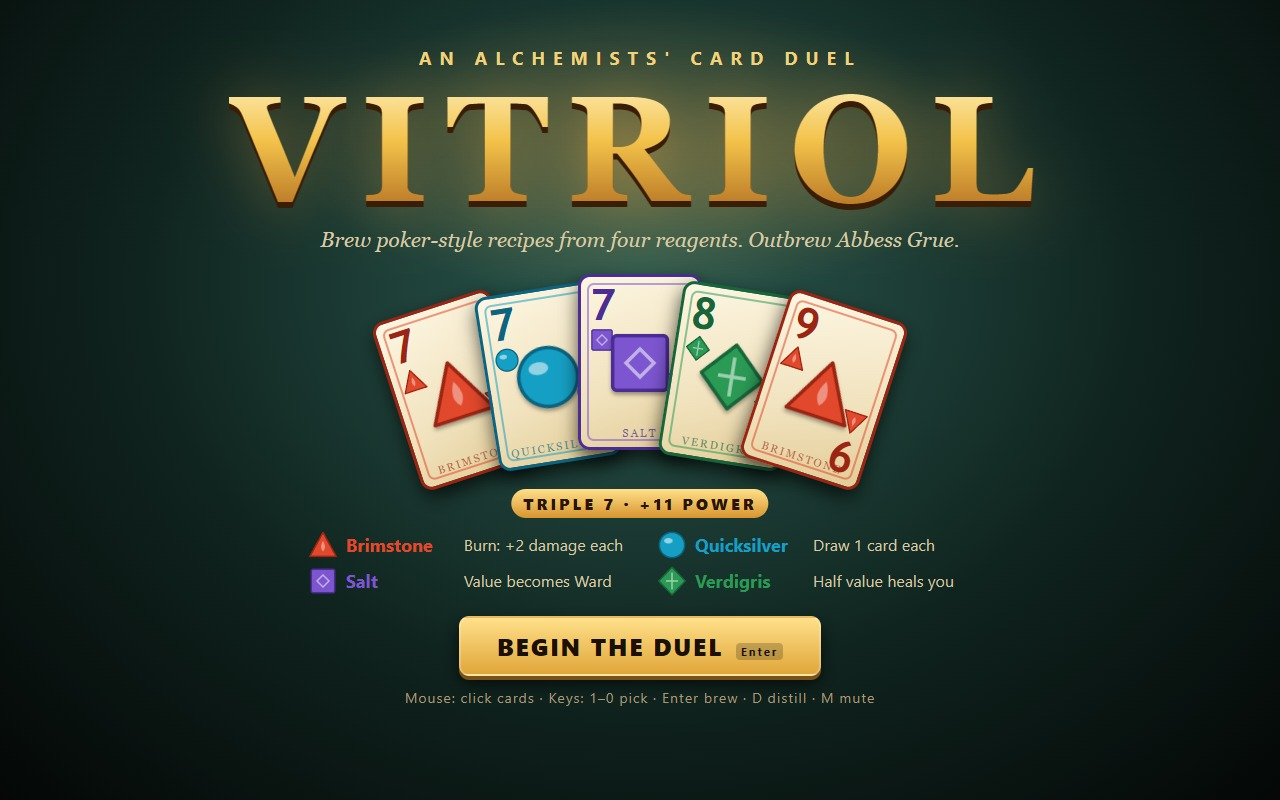
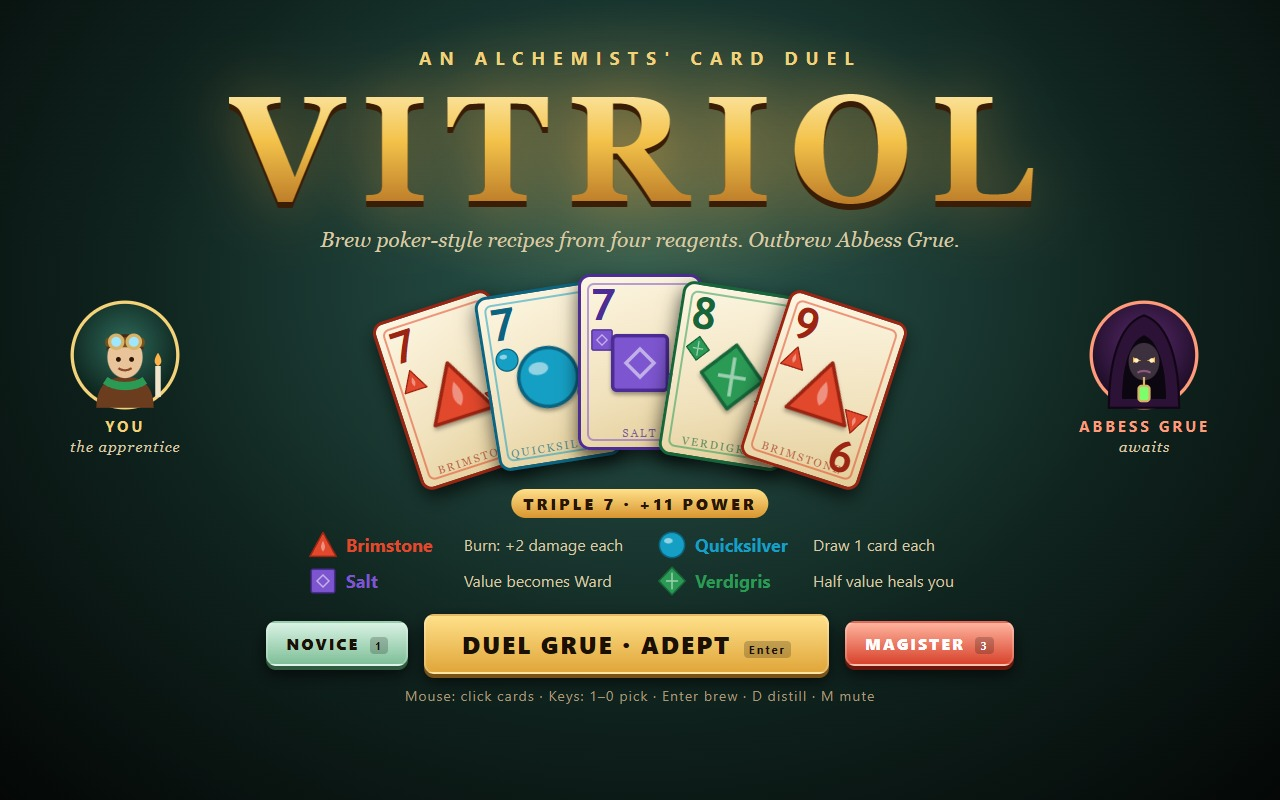
Difficulty levels (Novice/Adept/Magister), portraits on title, screenshot checks in main.ts

Changed region(s): [[0.1875, 0.75, 0.8125, 0.875], [0.8438, 0.375, 0.9375, 0.5625], [0.0312, 0.375, 0.1562, 0.5625]]

diff --git a/game/src/opponent-ai.js b/game/src/opponent-ai.js
@@ -1,31 +1,52 @@
 // Abbess Grue, the rival: weighs every possible brew in her hand and announces
 // the one she will throw next turn, so the player can read it and ward against it.
+// Difficulty: Novice brews sloppily, Adept weighs her own state, Magister also reads
+// the threat in your hand and wards up when you could finish her.
 import { allBrews, evaluateBrew } from "./combos.js";
 import { START_LIFE } from "./rules.js";
 
-const KEEP_CARD_COST = 1.6;
+export const DIFFICULTIES = {
+  novice: { name: 'Novice', keepCost: 0.4, noise: 14, readsThreat: false },
+  adept: { name: 'Adept', keepCost: 1.6, noise: 0, readsThreat: false },
+  magister: { name: 'Magister', keepCost: 4.0, noise: 0, readsThreat: true },
+};
 
-export function scoreRivalBrew(brew, rival, player) {
+/** The most damage the opponent could deal next turn from their hand (Magister peeks at it). */
+export function threatFrom(side) {
+  let most = 0;
+  for (const cards of allBrews(side.hand)) {
+    const b = evaluateBrew(cards, side.lastSuit, side.chain);
+    if (b.damage > most) most = b.damage;
+  }
+  return most;
+}
+
+export function scoreRivalBrew(brew, rival, player, level = DIFFICULTIES.adept, threat = 0) {
   const lethal = brew.damage >= player.life + player.ward;
   if (lethal) return 1000 + brew.damage;
   const hurt = START_LIFE - rival.life;
-  const wardWeight = rival.life < 30 ? 0.95 : rival.life < 50 ? 0.65 : 0.35;
+  let wardWeight = rival.life < 30 ? 0.95 : rival.life < 50 ? 0.65 : 0.35;
+  if (level.readsThreat && threat >= rival.life) wardWeight = 1.6;
   const healWeight = hurt > 18 ? 1.1 : hurt > 8 ? 0.6 : 0.1;
   const usefulHeal = Math.min(brew.heal, hurt);
+  const usefulWard = level.readsThreat ? Math.min(brew.ward, Math.max(threat, 6)) : brew.ward;
   const pressure = player.life < 30 ? 1.25 : 1;
-  return brew.damage * pressure + brew.ward * wardWeight + usefulHeal * healWeight + brew.draw * 1.5
-    - brew.cards.length * KEEP_CARD_COST + brew.chain * 1.2;
+  return brew.damage * pressure + usefulWard * wardWeight + usefulHeal * healWeight + brew.draw * 1.5
+    - brew.cards.length * level.keepCost + brew.chain * 1.2;
 }
 
 /** Picks the rival's next brew and labels it as an intent the table shows. */
 export function planRivalBrew(state) {
   const { rival, player } = state;
   if (rival.hand.length === 0) return null;
+  const level = DIFFICULTIES[state.difficulty] || DIFFICULTIES.adept;
+  const threat = level.readsThreat ? threatFrom(player) : 0;
   let best = null;
   let bestScore = -Infinity;
   for (const cards of allBrews(rival.hand)) {
     const brew = evaluateBrew(cards, rival.lastSuit, rival.chain);
-    const score = scoreRivalBrew(brew, rival, player);
+    let score = scoreRivalBrew(brew, rival, player, level, threat);
+    if (level.noise) score += state.rng.next() * level.noise;
     if (score > bestScore) { bestScore = score; best = brew; }
   }
   return { cards: best.cards, brew: best, mood: intentMood(best) };

diff --git a/game/src/table-render.js b/game/src/table-render.js
@@ -4,6 +4,7 @@ import { evaluateBrew, MAX_BREW } from './combos.js';
 import { START_LIFE, HAND_LIMIT } from './rules.js';
 import { makeCardFace, makeCardBack, suitGlyphSvg } from './card-art.js';
 import { rivalPortrait, playerPortrait } from './portraits.js';
+import { DIFFICULTIES } from './opponent-ai.js';
 
 export const STAGE_W = 1280;
 export const STAGE_H = 800;
@@ -33,10 +34,10 @@ export function handSlots(count, centerX = 640, cardW = HAND_CARD_W, span = 780)
   return Array.from({ length: count }, (_, i) => ({ x: left + gap * i, rot: (i - (count - 1) / 2) * 2.2, lift: Math.abs(i - (count - 1) / 2) * 3 }));
 }
 
-function lifePanel(side, who, isTurn) {
+function lifePanel(side, who, isTurn, level) {
   const p = el('div', `panel life-panel ${who}${isTurn ? ' active' : ''}`);
   const pct = Math.max(0, side.life / START_LIFE) * 100;
-  const title = who === 'rival' ? 'ABBESS GRUE' : 'YOU · APPRENTICE';
+  const title = who === 'rival' ? `ABBESS GRUE<span class="level-tag">${(DIFFICULTIES[level] || DIFFICULTIES.adept).name.toUpperCase()}</span>` : 'YOU · APPRENTICE';
   p.innerHTML = `
     <div class="who">${title}</div>
     <div class="life-row"><div class="flask"></div><span class="life-num">${side.life}</span><span class="life-max">/${START_LIFE}</span></div>
@@ -144,7 +145,7 @@ export function renderTable(root, state, ui) {
   table.append(el('div', 'felt-ring'));
   table.append(el('div', 'crucible'));
 
-  table.append(place(lifePanel(state.rival, 'rival', state.phase === 'rival'), 24, 20));
+  table.append(place(lifePanel(state.rival, 'rival', state.phase === 'rival', state.difficulty), 24, 20));
   table.append(place(lifePanel(state.player, 'player', state.phase === 'player'), 24, 596));
   table.append(place(intentPanel(state, ui), 968, 20));
   table.append(place(recipeBook(), 1010, 252));

diff --git a/main.ts b/main.ts
@@ -1,6 +1,6 @@
 // VITRIOL hand-in: copies the game and its screenshots to the output folder
 // and writes the dossier the gate rebuilds byte for byte.
-import { cpSync, existsSync, mkdirSync, rmSync, writeFileSync } from 'node:fs';
+import { cpSync, existsSync, mkdirSync, readdirSync, readFileSync, rmSync, writeFileSync } from 'node:fs';
 import { dirname, join } from 'node:path';
 import { fileURLToPath } from 'node:url';
 import { buildDossier } from './vendor/makefun-game.ts';
@@ -16,6 +16,22 @@ function copyFolder(name: string): void {
   cpSync(from, to, { recursive: true, dereference: false });
 }
 
+/** Fails early, with a clear message, on screenshots the gate would refuse. */
+function checkScreenshots(): void {
+  const dir = join(repoRoot, 'screenshots');
+  const shots = readdirSync(dir).filter((name) => !name.startsWith('.')).sort();
+  if (shots.length < 3 || shots.length > 4) throw new Error(`screenshots/ holds ${shots.length} images; the gate wants 3 or 4`);
+  for (const name of shots) {
+    if (!/^[A-Za-z0-9_][A-Za-z0-9._-]{0,127}$/.test(name)) throw new Error(`screenshot name not allowed: ${name}`);
+    const bytes = readFileSync(join(dir, name));
+    if (bytes.length > 256 * 1024) throw new Error(`${name} is ${bytes.length} bytes; the cap is 256 KiB`);
+    const isJpeg = bytes[0] === 0xff && bytes[1] === 0xd8;
+    const isPng = bytes[0] === 0x89 && bytes[1] === 0x50 && bytes[2] === 0x4e && bytes[3] === 0x47;
+    if (!isJpeg && !isPng) throw new Error(`${name} is neither PNG nor JPEG`);
+  }
+}
+
+checkScreenshots();
 mkdirSync(outputDir, { recursive: true });
 copyFolder('game');
 copyFolder('screenshots');

diff --git a/game/src/screens.js b/game/src/screens.js
@@ -2,6 +2,7 @@
 import { SUITS, SUIT_ORDER } from './deck.js';
 import { makeCardFace, suitGlyphSvg } from './card-art.js';
 import { confetti } from './animations.js';
+import { rivalPortrait, playerPortrait } from './portraits.js';
 
 function overlay(cls) {
   const o = document.createElement('div');
@@ -21,8 +22,13 @@ export function renderTitle(root, { animate = true } = {}) {
     <div class="title-rules">
       ${SUIT_ORDER.map((s) => `<div class="rule">${suitGlyphSvg(s, 30)}<b style="color:${SUITS[s].color}">${SUITS[s].name}</b><span>${SUITS[s].rider}</span></div>`).join('')}
     </div>
-    <button class="btn start" data-action="start">BEGIN THE DUEL <kbd>Enter</kbd></button>
+    <div class="title-start">
+      <button class="btn level" data-action="start-novice">NOVICE <kbd>1</kbd></button>
+      <button class="btn start" data-action="start-adept">DUEL GRUE · ADEPT <kbd>Enter</kbd></button>
+      <button class="btn level hard" data-action="start-magister">MAGISTER <kbd>3</kbd></button>
+    </div>
     <div class="title-keys">Mouse: click cards · Keys: 1–0 pick · Enter brew · D distill · M mute</div>`;
+  o.querySelector('.title-glow').insertAdjacentHTML('afterend', `<div class="title-rival">${rivalPortrait(110)}<span>ABBESS GRUE<br><em>awaits</em></span></div><div class="title-rival you">${playerPortrait(110)}<span>YOU<br><em>the apprentice</em></span></div>`);
   const fan = o.querySelector('.title-fan');
   const showcase = [
     { id: 't1', suit: 'brimstone', value: 7 }, { id: 't2', suit: 'quicksilver', value: 7 }, { id: 't3', suit: 'salt', value: 7 },

diff --git a/game/src/main.js b/game/src/main.js
@@ -102,9 +102,12 @@ async function finish(won) {
   ui.busy = false;
 }
 
-function startDuel() {
+let difficulty = 'adept';
+
+function startDuel(level = difficulty) {
+  difficulty = level;
   startMusic();
-  state = createDuel(seedParam || (Date.now() & 0xffffff));
+  state = createDuel(seedParam || (Date.now() & 0xffffff), difficulty);
   ui.selected.clear();
   ui.busy = false;
   ui.pops = [];
@@ -120,6 +123,7 @@ bindInput(stage, {
     draw();
   },
   toggleSlot(i) {
+    if (screen === 'title' && (i === 0 || i === 2)) { startDuel(i === 0 ? 'novice' : 'magister'); return; }
     if (screen !== 'duel' || !state.player.hand[i]) return;
     this.toggleCard(state.player.hand[i].id);
   },
@@ -130,7 +134,8 @@ bindInput(stage, {
   },
   action(name) {
     if (name === 'mute') { toggleMute(); return; }
-    if (screen === 'title' && (name === 'start' || name === 'confirm')) { startDuel(); return; }
+    if (screen === 'title' && name.startsWith('start-')) { startDuel(name.slice(6)); return; }
+    if (screen === 'title' && name === 'confirm') { startDuel('adept'); return; }
     if ((screen === 'won' || screen === 'lost') && (name === 'restart' || name === 'confirm')) { startDuel(); return; }
     if (screen !== 'duel') return;
     if (name === 'brew' || name === 'confirm') playerBrew();

diff --git a/game/style.css b/game/style.css
@@ -171,3 +171,11 @@ html, body { margin: 0; height: 100%; background: #07090a; overflow: hidden; fon
 @keyframes rays { to { transform: translate(-50%, -50%) rotate(360deg); } }
 .effects { gap: 12px; font-size: 20px; white-space: nowrap; }
 .effects > span { white-space: nowrap; }
+.title-start { display: flex; align-items: center; gap: 16px; margin-top: 18px; }
+.title-start .btn.start { margin-top: 0; }
+.btn.level { width: auto; margin-top: 0; padding: 10px 18px; font-size: 16px; background: linear-gradient(180deg, #d9f2e4, #7fbf98); box-shadow: 0 4px 0 #2f5a40, 0 8px 16px #000a; }
+.btn.level.hard { background: linear-gradient(180deg, #ffb39e, #d8432c); color: #fff; box-shadow: 0 4px 0 #6a160b, 0 8px 16px #000a; }
+.title-rival { position: absolute; right: 70px; top: 300px; display: flex; flex-direction: column; align-items: center; gap: 6px; font: bold 15px 'Segoe UI', sans-serif; letter-spacing: 3px; color: #ff9b7a; text-align: center; }
+.title-rival em { font: italic 15px Georgia, serif; letter-spacing: 1px; color: #d9c9a4; }
+.life-panel .level-tag { font-size: 11px; padding: 1px 6px; margin-left: 6px; border-radius: 8px; background: #ff9b7a33; color: #ffcdb8; letter-spacing: 1px; }
+.title-rival.you { right: auto; left: 70px; color: #f3d27a; }

diff --git a/game/src/rules.js b/game/src/rules.js
@@ -16,10 +16,10 @@ function makeSide(owner, name, rng) {
   return { owner, name, life: START_LIFE, ward: 0, satchel: buildSatchel(owner, rng), hand: [], spent: [], chain: 0, lastSuit: null, distilled: false, intent: null };
 }
 
-export function createDuel(seed) {
+export function createDuel(seed, difficulty = 'adept') {
   const rng = createRng(seed);
   const state = {
-    seed, rng, turn: 1, phase: 'player',
+    seed, rng, difficulty, turn: 1, phase: 'player',
     player: makeSide('you', 'You', rng),
     rival: makeSide('rival', 'Abbess Grue', rng),
     lastBrew: null,
